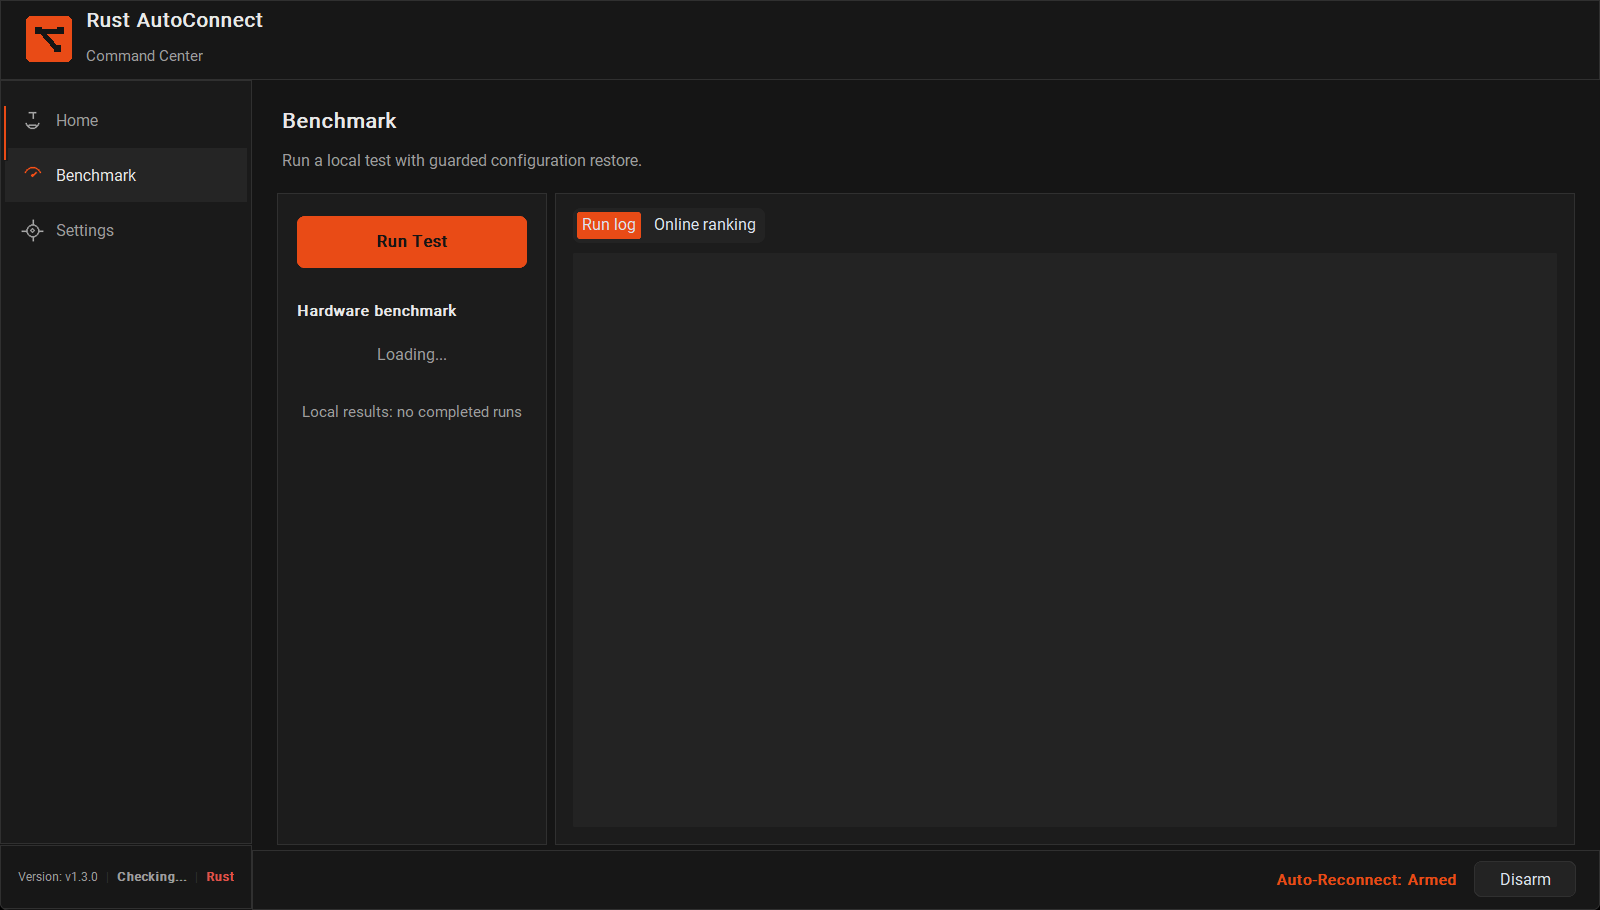
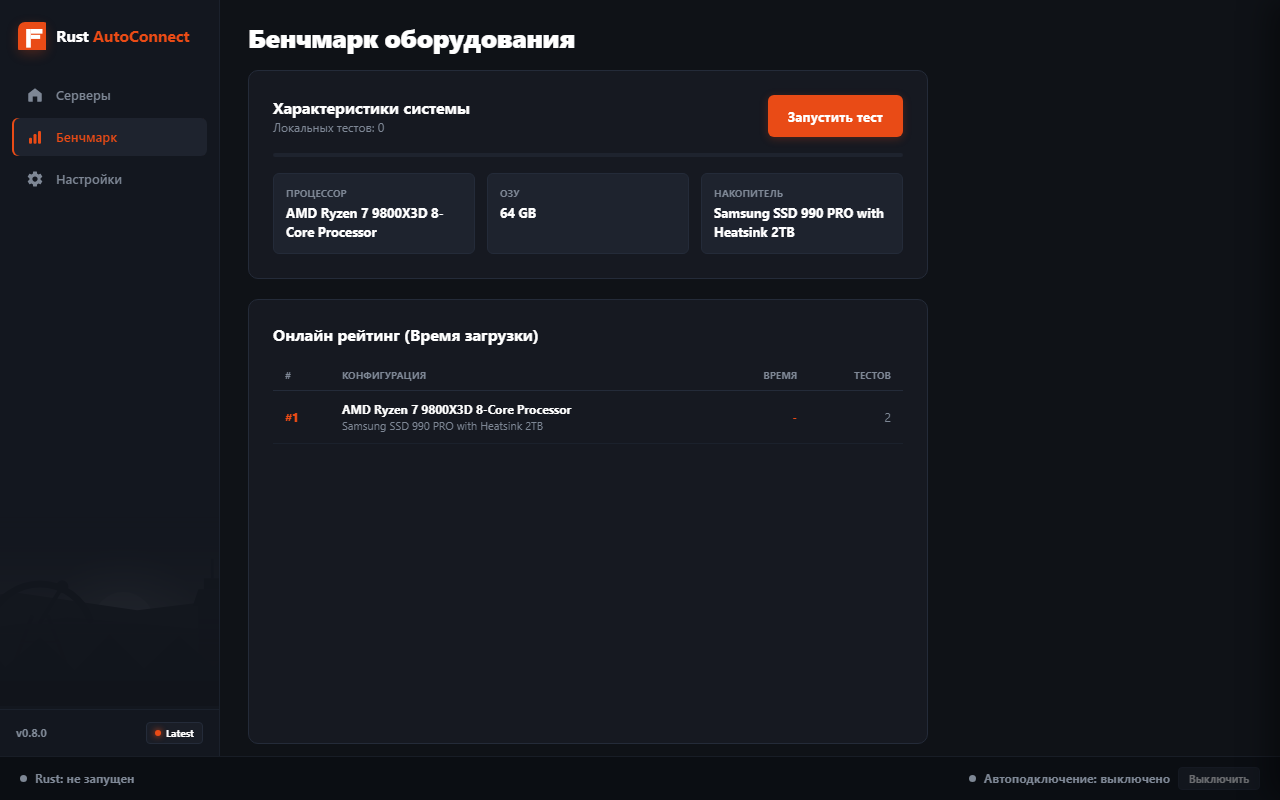
docs: update README to match the current app, fix missing aiohttp dependency
The README still described the app as it was before this release cycle:
CustomTkinter as the only interface, a build command that omits the web
UI's static assets, "19:00 London time" for force wipe (only true half
the year - it's a fixed 18:00 UTC), and screenshots of the old GUI.

- Documented the web UI as the default interface, the desktop GUI as
  --legacy, the CSRF/XSS hardening, live A2S-based server status, and
  7-language localization.
- Fixed the build instructions to use RustAutoConnect.spec instead of a
  raw pyinstaller invocation - the latter doesn't bundle src/web/static,
  producing the same broken 404 build fixed in the last release.
- Corrected the force-wipe time claim to 18:00 UTC.
- Replaced the screenshots (still showing v1.3.0 of the old GUI) with
  fresh ones of the current web UI: server list, server details card,
  settings, and benchmark.
- requirements.txt was missing aiohttp entirely, despite being the web
  UI's core dependency - `pip install -r requirements.txt && python
  main.py` would fail immediately on a clean checkout. Added it.

diff --git a/README.md b/README.md
@@ -3,29 +3,44 @@
 [![License: MIT](https://img.shields.io/badge/License-MIT-blue.svg)](https://opensource.org/licenses/MIT)
 [![Python 3.10+](https://img.shields.io/badge/python-3.10+-blue.svg)](https://www.python.org/downloads/)
 [![Platform](https://img.shields.io/badge/platform-windows-lightgray.svg)]()
+[![Languages](https://img.shields.io/badge/UI-7%20languages-orange.svg)]()
 
 AutoConnect is a robust, log-based server connection manager for the game Rust. Designed with strict adherence to Easy Anti-Cheat (EAC) guidelines, it provides automated server queuing, crash recovery, and wipe scheduling without injecting into the game's memory space.
 
+The app has two interfaces sharing the same backend logic: a modern web UI (default) and a legacy desktop GUI. Both are fully localized into 7 languages.
+
 ## Features
 
-![Connect](assets/screenshots/connect.png)
+![Servers](assets/screenshots/connect.png)
 
 - **Safe Log-Based Monitoring**: Uses only Steam URLs, A2S server queries, the Windows process list, and the player's own Rust log. It never reads game memory, injects code, hooks Rust, uses RCON, or emulates input.
 - **Smart Auto-Arming**: Automatically detects when you successfully connect to a server and "arms" the connection. If your game crashes or you are disconnected unexpectedly, AutoConnect will instantly restart Rust and place you back in the queue.
-- **Force Wipe Intelligence**: Calculates the official first-Thursday wipe window from 19:00 London time, corrects scheduling from recent network time, and uses bounded quiet/watch/turbo polling.
+- **Force Wipe Intelligence**: Calculates the official first-Thursday, 18:00 UTC wipe window, corrects scheduling from recent network time, and uses bounded quiet/watch/turbo polling. A live countdown is shown on each server's details card.
+- **Live Server Status**: Every saved server is checked directly via A2S on a background cycle — not a static indicator — so the list reflects who's actually reachable right now.
 - **Swarm Peer Network**: Optional Supabase Realtime hints. A client announces availability only after its own Rust log confirms connection; every receiver independently confirms with A2S before launching.
 - **Shared Server Catalogue**: Optional GameMonitoring-backed cache deduplicates provider checks for saved servers. It shares only server addresses, never player lists, logs, Steam IDs, or account data; cached offline and wipe data are hints, while local A2S remains the launch decision.
 - **Performance Benchmarking**: Automated testing framework that measures game loading times (Time-to-Menu and Map Load) by playing standardized `.dem` files.
 - **Telegram Integration**: Receive queue updates and wipe notifications directly to your phone via the integrated Telegram bot framework.
+- **7-Language UI**: Russian, English, Ukrainian, German, French, Spanish, and Chinese — including the activity log, not just static labels.
+
+<details>
+<summary>More screenshots (server details, settings, benchmark)</summary>
+
+![Server details](assets/screenshots/server_card.png)
+![Settings](assets/screenshots/settings.png)
+![Benchmark](assets/screenshots/benchmark.png)
+
+</details>
 
 ## Architecture
 
 The application is built on a modern asynchronous Python stack (`asyncio`) to guarantee minimal memory footprint and zero interface stuttering, even during intense background polling.
 
-- **GUI**: CustomTkinter
-- **Networking**: `asyncio` UDP A2S Client for non-blocking server queries
-- **Data Persistence**: JSON-based local history store
-- **Realtime Infrastructure**: Supabase Edge Functions & WebSockets
+- **Web UI (default)**: `aiohttp` local server + a plain HTML/CSS/JS frontend, opened in a dedicated Microsoft Edge app-mode window. All `/api/*` endpoints require a per-session CSRF token, and user-supplied text is HTML-escaped before rendering.
+- **Desktop GUI (legacy, `--legacy` / `--tk` flag)**: CustomTkinter.
+- **Networking**: `asyncio` UDP A2S Client for non-blocking server queries.
+- **Data Persistence**: JSON-based local history store.
+- **Realtime Infrastructure**: Supabase Edge Functions & WebSockets.
 
 ## Force Wipe and time accuracy
 
@@ -36,7 +51,7 @@ The application is built on a modern asynchronous Python stack (`asyncio`) to gu
 | Server disappears early or late | One separate bounded turbo window after the offline signal |
 | Rust update detected | Steam Downloads opens once; Connect waits for the local build ID to match |
 
-The official monthly default is the first Thursday at 19:00 London time. Server owners can use a different schedule or restart early, so the countdown is an acceleration signal, not a promise that a particular server is ready. The application uses server time from its update check when available and falls back transparently to Windows time offline.
+The official monthly default is the first Thursday at **18:00 UTC** (19:00 London time during British Summer Time, 18:00 the rest of the year — the countdown always shows your local time). Server owners can use a different schedule or restart early, so the countdown is an acceleration signal, not a promise that a particular server is ready. The application uses server time from its update check when available and falls back transparently to Windows time offline.
 
 ## Installation & Setup
 
@@ -50,17 +65,17 @@ The official monthly default is the first Thursday at 19:00 London time. Server 
    ```bash
    pip install -r requirements.txt
    ```
-4. **Run**:
+4. **Run** (opens the web UI by default; pass `--legacy` for the desktop GUI):
    ```bash
    python main.py
    ```
 
 ## Building the Executable
 
-To compile AutoConnect into a standalone Windows executable (`.exe`):
+To compile AutoConnect into a standalone Windows executable (`.exe`), use the tracked PyInstaller spec — it bundles the web UI's static assets, which a plain `pyinstaller main.py` invocation will silently omit:
 
 ```bash
-pyinstaller --noconfirm --onedir --windowed --add-data "assets;assets" "main.py"
+pyinstaller RustAutoConnect.spec --noconfirm
 ```
 
 The executable intentionally contains only public runtime configuration. A
